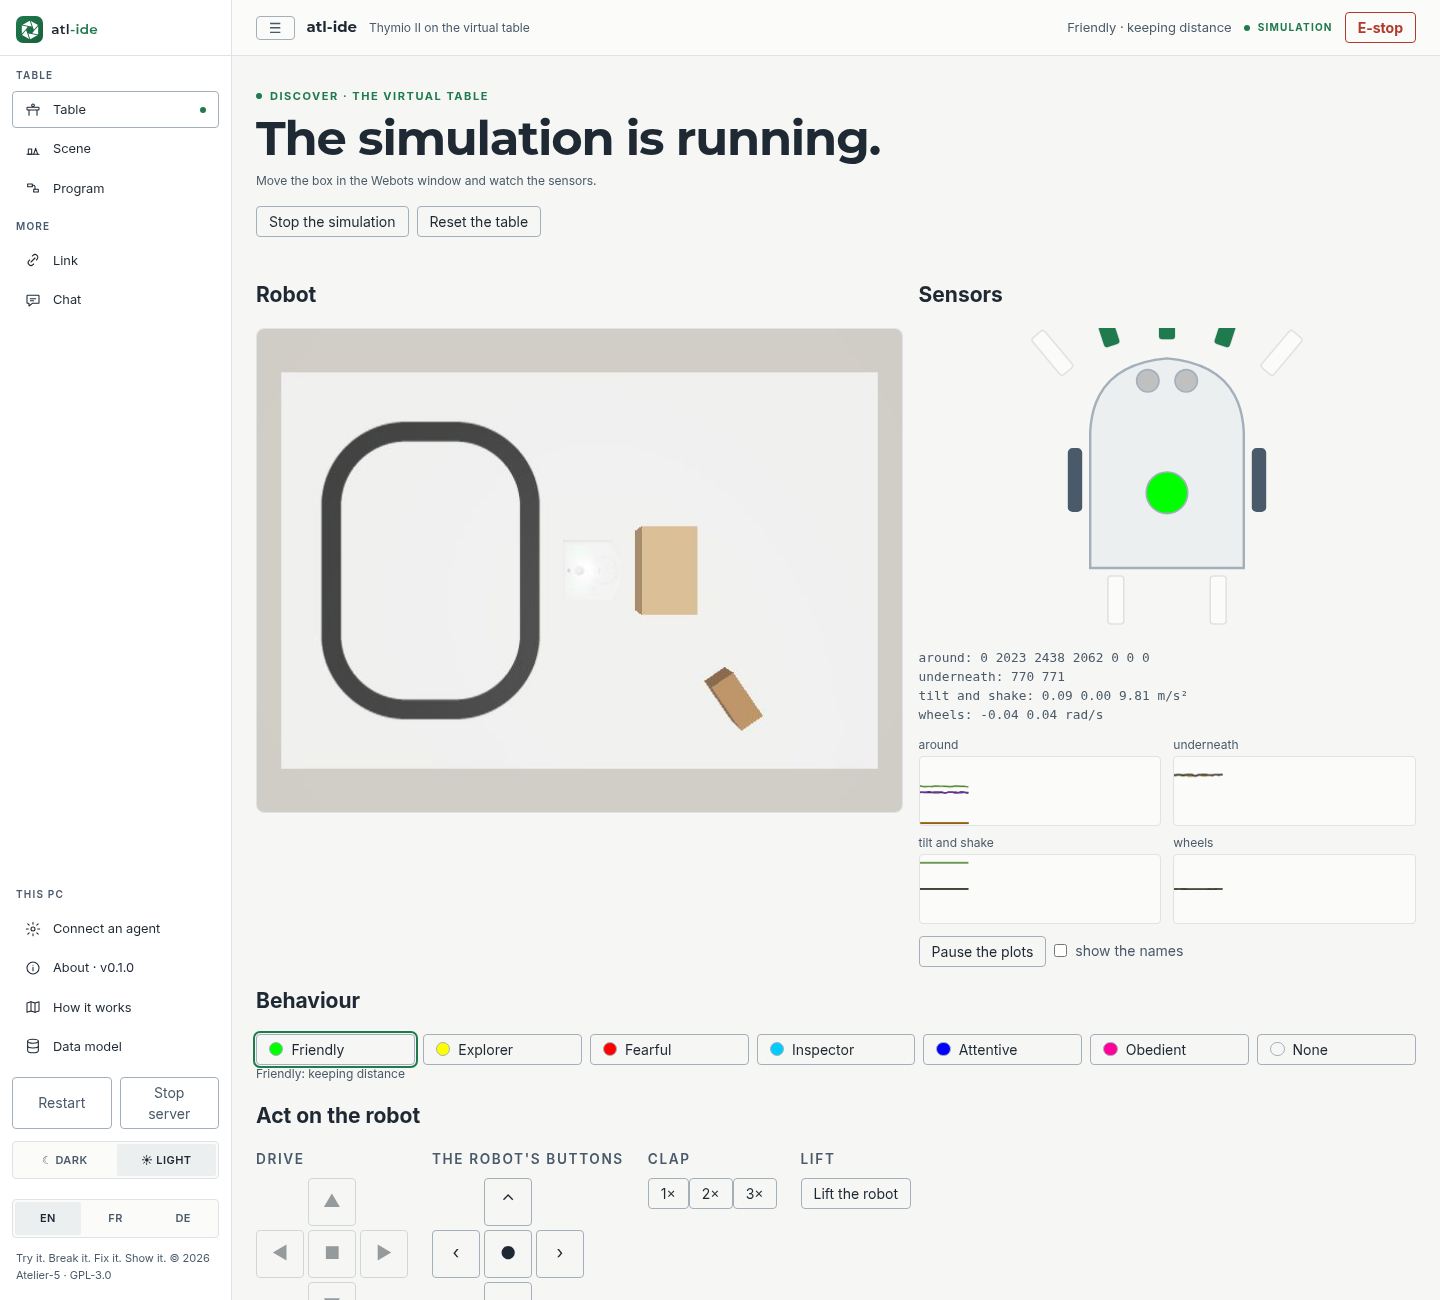
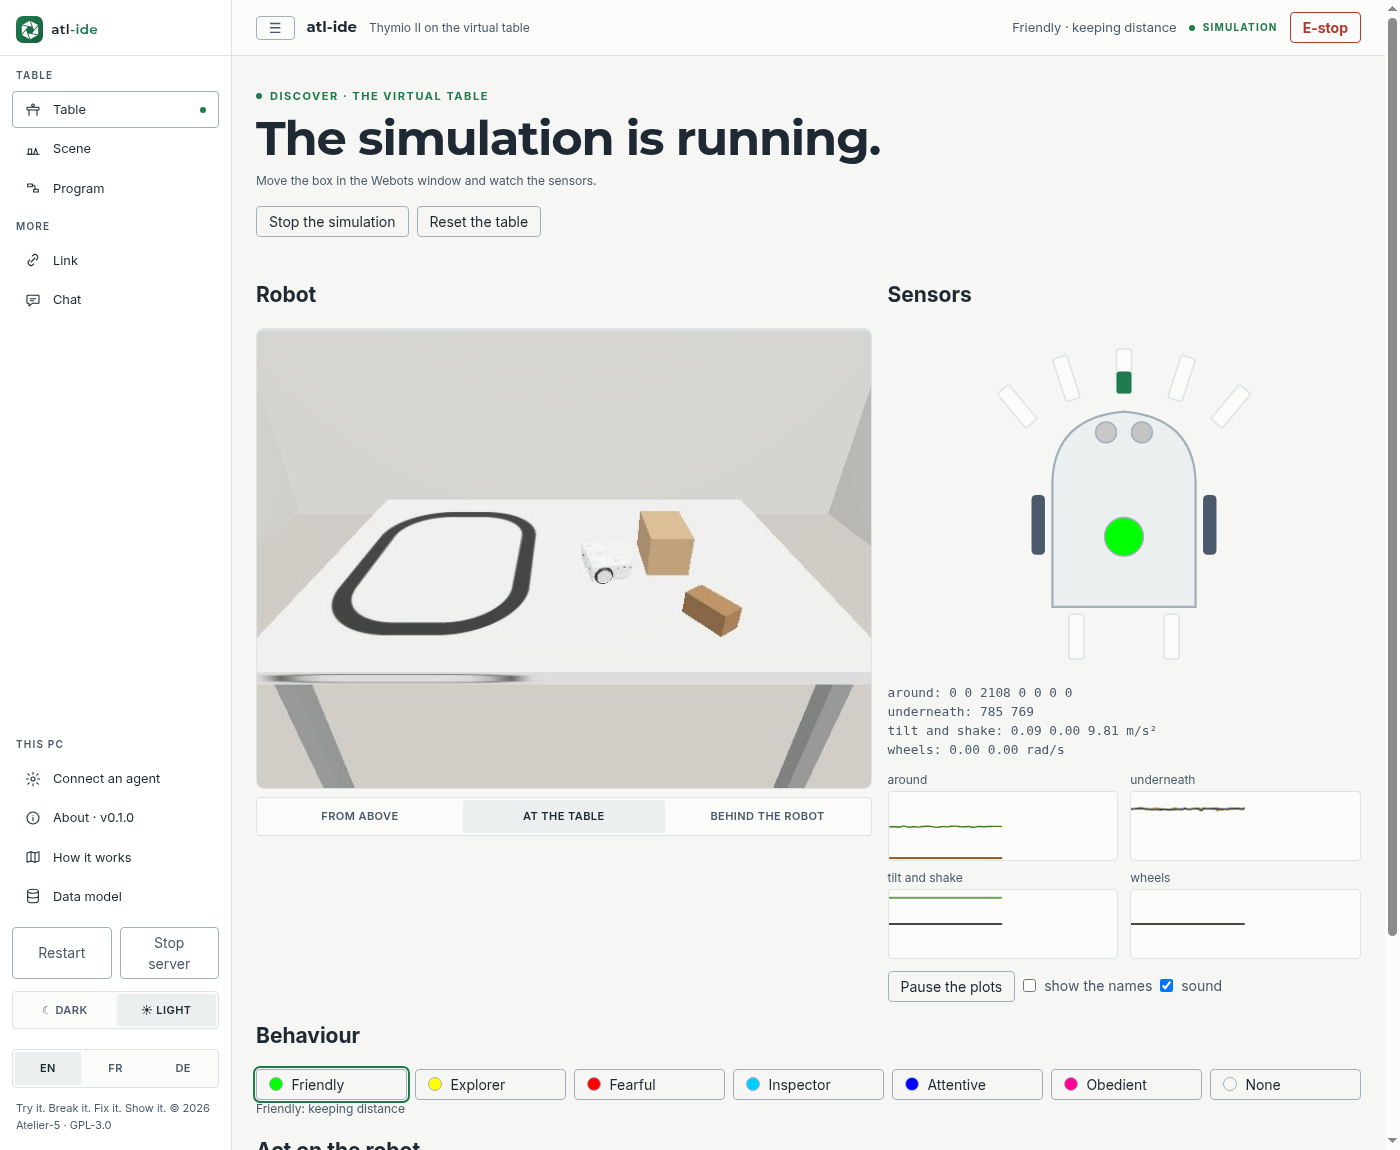
README in English, French and German; a fresh screenshot

diff --git a/README.md b/README.md
@@ -1,43 +1,139 @@
-<p align="center"><img src="docs/ui-table-live.png" alt="atl-ide: the Table screen, live: the camera above the table, the Thymio's sensors, the six behaviours" width="760"></p>
+<p align="center"><img src="docs/ui-table-live.png" alt="atl-ide: the Table screen, live: the camera at the table, the Thymio's sensors, the six behaviours" width="760"></p>
 
 # atl-ide: the Atelier-5 robotics IDE
 
-🇬🇧 A Thymio II on a virtual table: watch what it senses, drive it, start its built-in behaviours. Try it. Break it. Fix it. Show it.
-🇫🇷 Un Thymio II sur une table virtuelle : observe ce qu'il perçoit, conduis-le, lance ses comportements. Essayer. Démonter. Réparer. Montrer.
-🇩🇪 Ein Thymio II auf einem virtuellen Tisch: sieh, was er wahrnimmt, fahre ihn, starte seine Verhalten. Probieren. Zerlegen. Reparieren. Zeigen.
+🇬🇧 [English](#english) · 🇫🇷 [Français](#français) · 🇩🇪 [Deutsch](#deutsch)
 
 **v0.1 · Discover**: one Thymio II on a white table (1.2 × 0.8 m, open edges) with a black line, a carton box and a wooden block.
 
-## Run it
+---
+
+## English
+
+A Thymio II on a virtual table: watch what it senses, drive it, start its built-in behaviours.
+*Try it. Break it. Fix it. Show it.*
+
+### Run it
 
 It needs **Webots R2025a** (`sudo snap install webots`), **Docker** and the robot's body, the image of
 [atl-bot-thymio](https://github.com/Atelier-5/atl-bot-thymio) (ROS 2 Kilted, so it runs on any host):
 
 ```bash
 (cd ../atl-bot-thymio && docker build -f docker/Dockerfile -t atl-bot-thymio:kilted .)
-./run.sh                 # http://127.0.0.1:8780 → Start the simulation
-./test.sh                # the tests: no Webots, no Docker
+./run.sh                                   # http://127.0.0.1:8780 → Start the simulation
+./test.sh                                  # the tests: no Webots, no Docker
+.venv/bin/python scripts/selftest-twin.py  # the whole chain, headless, about 2 minutes
 ```
 
 **Start the simulation** writes the table (`atl/world.py` → `mydocs/twin/`), opens it in Webots, starts the
 robot's body in its container and waits until the sensors report. Closing the Webots window stops it all.
+It works from any terminal, PyCharm's included.
 
-## How it works
+### What is on the Table screen
 
-The page talks only to this app; the app talks HTTP to the body's **gateway** on 127.0.0.1:8781; the gateway
-speaks ROS 2 to the Webots drivers. The drawing is in the app, under **How it works** (`/how`), and the robot's
-ontology under **Data model** (`/model`): both are Archify drawings made from `docs/`.
-
-| Screen | |
+| | |
 |---|---|
-| **Table** | the camera above the table; the Thymio from above with its 7 + 2 sensors and LED; readings and rolling plots; the six behaviours; drive, the robot's buttons, clap, lift; E-stop and reset |
-| **Scene**, **Program** | the table's world; Blockly for the robot and the scene comes later |
-| **Link**, **Chat** | the Atelier-5 cloud (later) and an agent, whose actions a facilitator confirms |
+| **Robot** | the table's camera, seen **from above**, **at the table** or **behind the robot** |
+| **Sensors** | the Thymio from above with its 7 + 2 sensors and top LED; readings and rolling plots |
+| **Behaviour** | the six built-in behaviours, each with its colour: Friendly, Explorer, Fearful, Inspector, Attentive, Obedient |
+| **Act** | drive (the arrow pad or the keyboard's arrows), the robot's five buttons, clap 1–3, lift and put down |
+| always | **E-stop**, **Reset the table**, and **sound**: the tunes and beeps the real Thymio plays |
 
 Sensor names stay hidden until a facilitator shows them: the group discovers first, names come after.
-In English, French and German (`atl/i18n/`), from the D-LAB-5 tool and edge templates, as
+
+### An agent at the table
+
+The robot is described by an **ontology** (SOSA/SSN, SKOS, SHACL): the rules in `atl/edge/ontology/`, the
+robot's own description in its image (served at `/robot.ttl`). With `.mcp.json`, an agent can read the robot,
+its live sensors and its commands freely. What it wants the robot to do is **checked against the shapes**, then
+**proposed** in the chat: a facilitator confirms it. The E-stop is never a proposal.
+The drawings are in the app: **How it works** (`/how`) and **Data model** (`/model`).
+
+---
+
+## Français
+
+Un Thymio II sur une table virtuelle : observe ce qu'il perçoit, conduis-le, lance ses comportements.
+*Essayer. Démonter. Réparer. Montrer.*
+
+### Lancer
+
+Il faut **Webots R2025a** (`sudo snap install webots`), **Docker** et le corps du robot, l'image de
+[atl-bot-thymio](https://github.com/Atelier-5/atl-bot-thymio) (ROS 2 Kilted, pour tourner sur n'importe quel PC) :
+
+```bash
+(cd ../atl-bot-thymio && docker build -f docker/Dockerfile -t atl-bot-thymio:kilted .)
+./run.sh                                   # http://127.0.0.1:8780 → Lancer la simulation
+./test.sh                                  # les tests : sans Webots, sans Docker
+.venv/bin/python scripts/selftest-twin.py  # toute la chaîne, sans fenêtre, environ 2 minutes
+```
+
+**Lancer la simulation** écrit la table (`mydocs/twin/`), l'ouvre dans Webots, démarre le corps du robot dans
+son conteneur et attend que les capteurs répondent. Fermer la fenêtre de Webots arrête tout.
+
+### L'écran Table
+
+| | |
+|---|---|
+| **Robot** | la caméra de la table, vue **d'en haut**, **à la table** ou **derrière le robot** |
+| **Capteurs** | le Thymio vu d'en haut, ses 7 + 2 capteurs et sa lumière ; les valeurs et leurs courbes |
+| **Comportement** | les six comportements du Thymio, chacun avec sa couleur : Amical, Explorateur, Peureux, Enquêteur, Attentif, Obéissant |
+| **Agir** | conduire (les flèches), les cinq boutons du robot, taper dans les mains 1 à 3 fois, le soulever et le reposer |
+| toujours | **Arrêt d'urgence**, **Remettre la table en place**, et le **son** : les mélodies et bips du vrai Thymio |
+
+Les noms des capteurs restent cachés jusqu'à ce qu'un animateur les montre : le groupe découvre d'abord, les noms viennent après.
+
+### Un agent à la table
+
+Le robot est décrit par une **ontologie** (SOSA/SSN, SKOS, SHACL). Un agent lit librement le robot, ses capteurs
+et ses commandes. Ce qu'il veut faire faire au robot est **vérifié par les formes SHACL**, puis **proposé** dans le
+chat : un animateur le confirme. L'arrêt d'urgence n'est jamais une proposition.
+
+---
+
+## Deutsch
+
+Ein Thymio II auf einem virtuellen Tisch: sieh, was er wahrnimmt, fahre ihn, starte seine Verhalten.
+*Probieren. Zerlegen. Reparieren. Zeigen.*
+
+### Starten
+
+Nötig sind **Webots R2025a** (`sudo snap install webots`), **Docker** und der Körper des Roboters, das Image von
+[atl-bot-thymio](https://github.com/Atelier-5/atl-bot-thymio) (ROS 2 Kilted, damit es auf jedem PC läuft):
+
+```bash
+(cd ../atl-bot-thymio && docker build -f docker/Dockerfile -t atl-bot-thymio:kilted .)
+./run.sh                                   # http://127.0.0.1:8780 → Simulation starten
+./test.sh                                  # die Tests: ohne Webots, ohne Docker
+.venv/bin/python scripts/selftest-twin.py  # die ganze Kette, ohne Fenster, etwa 2 Minuten
+```
+
+**Simulation starten** schreibt den Tisch (`mydocs/twin/`), öffnet ihn in Webots, startet den Körper des Roboters
+in seinem Container und wartet, bis die Sensoren antworten. Das Webots-Fenster schließen hält alles an.
+
+### Der Tisch-Bildschirm
+
+| | |
+|---|---|
+| **Roboter** | die Kamera des Tisches, **von oben**, **am Tisch** oder **hinter dem Roboter** |
+| **Sensoren** | der Thymio von oben mit seinen 7 + 2 Sensoren und dem Licht; Werte und Verläufe |
+| **Verhalten** | die sechs Verhalten des Thymio, jedes mit seiner Farbe: Freundlich, Entdecker, Ängstlich, Inspektor, Aufmerksam, Gehorsam |
+| **Handeln** | fahren (die Pfeile), die fünf Tasten des Roboters, 1–3 Mal klatschen, hochheben und absetzen |
+| immer | **Not-Halt**, **Tisch zurücksetzen** und **Ton**: die Melodien und Pieptöne des echten Thymio |
+
+Die Namen der Sensoren bleiben verborgen, bis eine Begleitperson sie zeigt: die Gruppe entdeckt zuerst, die Namen kommen danach.
+
+### Ein Agent am Tisch
+
+Der Roboter ist durch eine **Ontologie** beschrieben (SOSA/SSN, SKOS, SHACL). Ein Agent liest den Roboter, seine
+Sensoren und Befehle frei. Was er den Roboter tun lassen will, wird **mit den SHACL-Formen geprüft** und dann im
+Chat **vorgeschlagen**: eine Begleitperson bestätigt es. Der Not-Halt ist nie ein Vorschlag.
+
+---
+
+From the D-LAB-5 tool and edge templates, as
 [digitalhome-twin-edge-WormBed-5](https://github.com/DigitalHome-cloud/digitalhome-twin-edge-WormBed-5).
 
-## License
+## License · Licence · Lizenz
 GPL-3.0-or-later. The name "Atelier-5" and its logos are reserved for modified versions (GPLv3 §7(e),
 see [atl-hub/TRADEMARKS.md](https://github.com/Atelier-5/atl-hub/blob/main/TRADEMARKS.md)).
